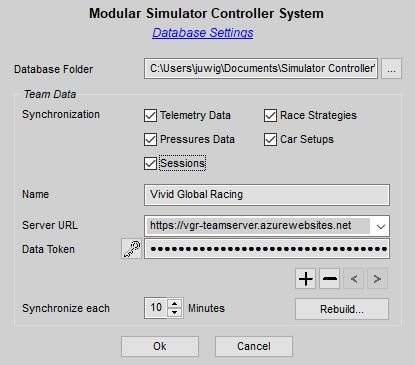
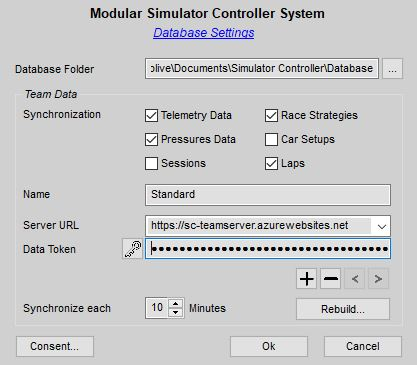
Open consent dialog from "Session Database"

diff --git a/Docs/Session Database.md b/Docs/Session Database.md
@@ -292,6 +292,8 @@ Please note, that the initial synchronization might take quite a while (up to a 
 
 Final note: Once you have changed the database location or the synchronization settings, you will be prompted to restart all applications of Simulator Controller.
 
+With the "Consent..." button in the lower left corner of the dialog, you can open the [consent dialog](https://github.com/SeriousOldMan/Simulator-Controller/wiki/Session-Database#sharing-data-with-the-community), if you want to change your community settings.
+
 ##### Data privacy
 
 It is important to understand, that in all cases only data that you created yourself, will be replicated to a central database in a Team Server. This protects the personal rights and copyrights of other drivers. Although you will receive all data from all other team members, this data will never be replicated back to any (other) Team Server. So, if you switch teams, for example, the data replicated from your former team will still be available in your local database, but it will not be synchronized with the central Team Server database of your new team.
